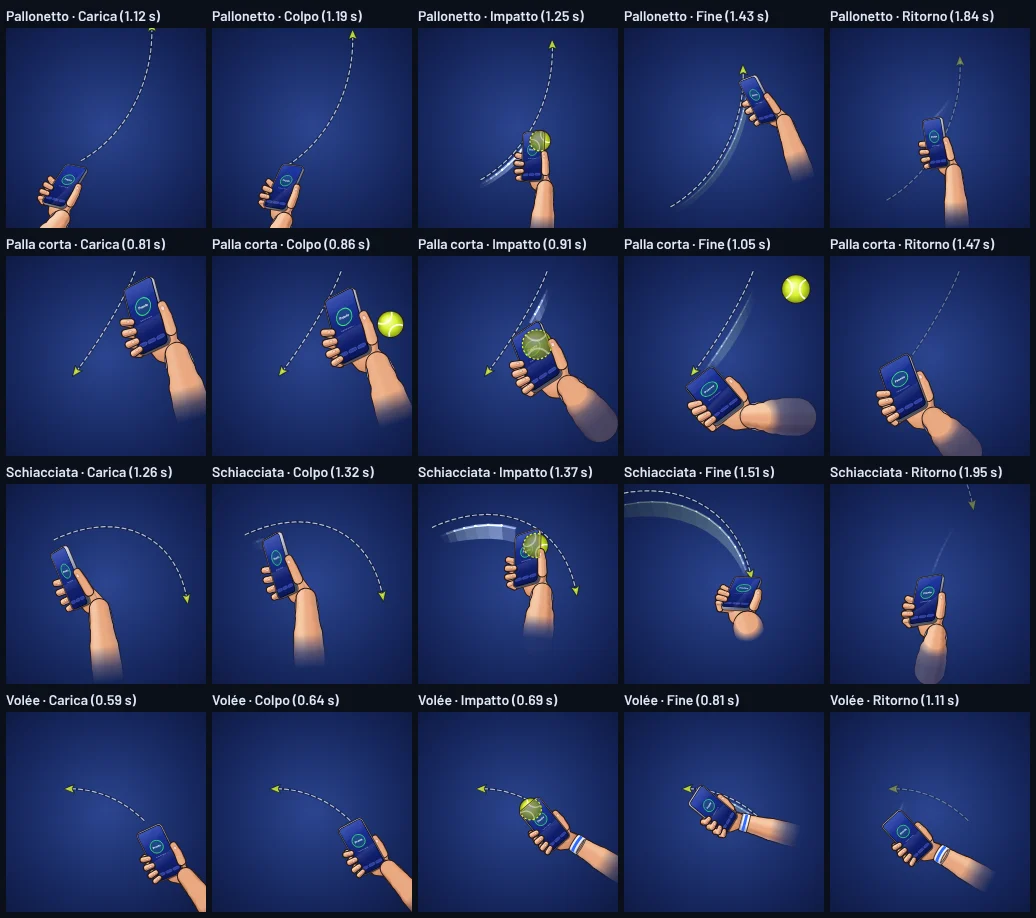
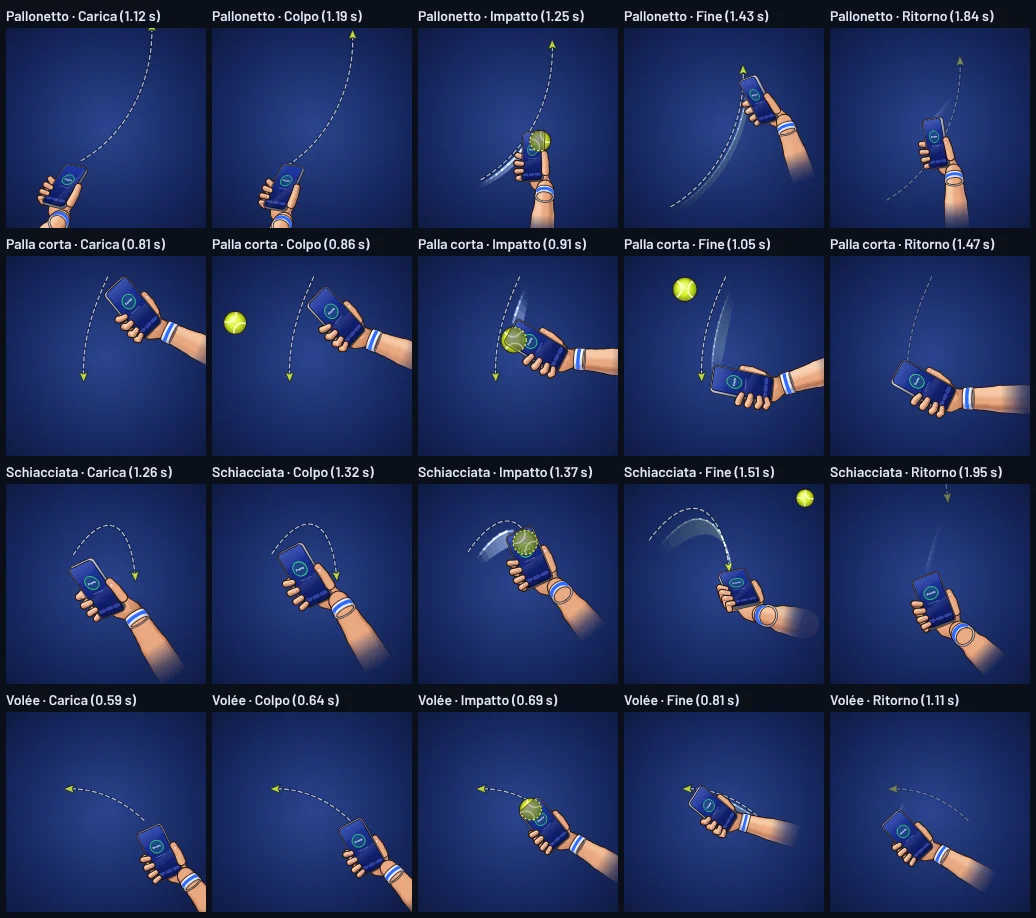
B9 animazione: nota delle due revisioni (tecnica e artistica) in docs/b9/animazione-c.md §6, fogli C-anim-* rifatti e guardati, fotogrammi in sequenza
- docs/b9/animazione-c.md §6: cosa trovato, cosa corretto, misure (fps, ms, peso, prove nel browser, lista §5.6.2 punto
  per punto), minori lasciati e non verificato.
- docs/b9/img/C-anim-*.webp rifatti dopo le correzioni; nuovi C-anim-seq-* (16 fotogrammi per ciclo a 448×280 di
  servizio, schiacciata, palla corta e dritto mancino; strisce 1600×1000 di dritto e servizio).
- Test dell'avambraccio: soglia 28° (oggi minimo 30°: servizio e schiacciata a fine ritorno).

Claude-Session: https://claude.ai/code/session_014xUKe3fJojkqNghZjqDcyr

diff --git a/docs/b9/animazione-c.md b/docs/b9/animazione-c.md
@@ -3,6 +3,8 @@
 > Stato: **completo per l'unione** (06/11/2026, worktree `wf_b232ca46-ca8-1`, branch `worktree-wf_b232ca46-ca8-1`, base
 > `b86baac` più `natpf-simulator` unito). Brief: `docs/b9/giudizio-animazione.md` §5. Posa: `docs/b9/posa-gesti.md`.
 > Fogli di controllo: `docs/b9/img/C-anim-*.webp`. Modale vera: `docs/b9/img/C-modale-*.webp`.
+> **Unito in `f386f89` senza le due revisioni previste: fatte dopo l'unione, vedi §6** (cosa trovato, cosa corretto,
+> misure). Le camere di servizio, schiacciata e palla corta del §1 e del brief sono cambiate lì.
 
 ## 1. Cosa è cambiato
 
@@ -133,3 +135,85 @@ Schermate guardate: `C-modale-1280x720` (dritto all'impatto, «Rivedi i gesti» 
 - Presa a martello (rollback): disegnata e fedele nei test, ma le camere sono tarate per la presa nel palmo (telefono di
   taglio nel dritto a martello alla Carica).
 - Le misure dei tempi sono state prese con un altro agente al lavoro sulla stessa macchina (carico 1–5 su 4 core).
+
+## 6. Revisioni dopo l'unione (06/11/2026 sera, worktree `wf_0d2c43d5-d67-1`, base `3685b0f`)
+
+Il ramo è stato unito (`f386f89`) senza le due revisioni del brief; fatte qui, sul codice unito. Commit: `2168295`,
+`46dde6a`, `3f41e33` più questa nota. Riconoscimento dei gesti **non toccato** (moti, piani, rilevatore): cambiano solo
+disegno, dati delle camere (`CAMERAS` di `natpf_gesture_pose.js`, solo disegno) e un riquadro dell'Allenamento.
+
+### 6.1 Revisione tecnica
+| Controllo | Trovato | Corretto / misura |
+|---|---|---|
+| API di `natpf_gesture_demo.js` e usi | invariata; usi: `natpf_tutorial.js` (istanza iniettata, `stop()` alla chiusura, `_fit` → `setSize`), `natpf_training.js` (`'main'` per la modale, `'coach'` 200×200 negli esercizi e 300×300 nella lezione, compatta), `natpf_split_ui.js` (`'p1'`/`'p2'`), `natpf_media.js` (solo un commento) | — |
+| `demo.pose == gesturePose`: il test di fedeltà fallisce davvero? | **No**: il test confrontava `demo.pose(t)` con `gesturePose`, ma non che il disegno usi `demo.pose`. Prova: con `render` che calcola la posa da sé (`gesturePose(...)` al posto di `this.pose(tt)`) i 7 test del file restavano verdi | nuovo test con un contesto 2D finto in Node: il disegno vero gira, lo scheletro disegnato (`info.figure.rig`) = `handRig(gesturePose)` destro e mancino, e con `demo.pose` sostituita il disegno la segue. Con la stessa mutazione ora **fallisce** («il disegno non segue demo.pose»). Corretto anche `info` della presa (perdeva la figura) |
+| Due istanze nello stesso schermo | ok: istanze distinte, dritto P1 e servizio mancino P2 insieme | 60,0 fps a 1280×720 (≥ 50 ✓) |
+| Compatta negli esercizi dell'Allenamento | ok (200×200, `compact`), **ma** con la modale «Rivedi i gesti» aperta durante un esercizio il riquadro «Guarda e ripeti» continuava a disegnare sotto la modale (due animazioni) | si ferma con la modale aperta e riparte alla chiusura; verifica nuova in `natpf-training-flow` (prima 0 controlli, ora: in esercizio gira, compatta, 200 px; sotto la modale ferma, 0 fotogrammi in 0,5 s; dopo riparte) |
+| Nessun disegno a modale chiusa (requestAnimationFrame) | ok: `close()` chiama `stop()` | contate le `requestAnimationFrame` chieste dal modulo (pila della chiamata) per 1 s: **0** a modale chiusa (1280×720 e 1920×1080, dopo riapertura su un'altra scheda) e **0** con le due metà dello stesso schermo chiuse |
+| fps senza GPU (Chromium 153, opzioni predefinite) | — | modale sopra l'arena ferma: **58,4** fps a 1280×720 (disegno 1,9 ms), **60,2** a 1920×1080 (3,7 ms); due istanze **60,0**. Una prima esecuzione a 1920×1080 con carico 8–10 su 4 core (altri agenti con Chromium): 45,9 fps, rossa; ripetuta con carico ~8: verde. Con il campo 3D che gioca dietro: 1,3–1,7 fps con e senza modale (WebGL in software: il campo da solo non arriva a 2 fps); il ≥ 55 fps sopra il gioco che gira **non è misurabile qui** |
+| Costo del disegno a 640×400 | registrazione 2,25–2,59 ms (≤ 4 ✓); con la rasterizzazione su CPU 3,87 / 4,06 / 4,11 ms con carico 5–6 (≤ 4 al limite, una su tre verde); stessa misura sulla base `3685b0f` nello stesso momento: 3,71. Confronto alternato per scheda (min di 3 giri): media **3,45 ms** contro 3,21 della base; servizio 4,01 (2,79) e schiacciata 3,80 (2,69): le camere nuove mostrano l'avambraccio di lato, più lungo e quindi più pixel da sfumare; presa 4,54 (5,00) | registrazione ✓; rasterizzazione su CPU al limite con la macchina carica (da rimisurare a macchina scarica; su un PC con GPU il Canvas 2D è accelerato) |
+| Peso nella build | — | JS principale 1 519 981 → 1 561 091 byte rispetto a `3b59c51`, gzip −9 457 001 → 473 176 (**+16,2 KB** compressi ≤ 40 ✓); `dist` intera +42,8 KB non compressi; nessun asset |
+| Prove nel browser | — | `natpf-modale-gesti` **18/18** (15 + 3 nuove), `natpf-tutorial-phone` **37/37**, `natpf-split-ready` **34/34** (prima esecuzione 33/34 con la macchina carica, ripetuta verde), `natpf-training-flow` **18/18** (17 + 1 nuova), `natpf-gesti-fotogrammi` 30/31 (rossa solo la rasterizzazione ≤ 4 ms sopra) |
+
+### 6.2 Revisione artistica e didattica
+Fotogrammi in sequenza (nuova prova `tools/e2e/natpf-gesti-sequenze.mjs`: 16 per ciclo, 11 schede, destro e mancino, a
+640×400 e 448×280, striscia 1600×1000; più le misure del moto a 60 fps sul disegno) **guardati**, più primi piani a
+800×500. In `docs/b9/img/`: `C-anim-seq-448x280-servizio`, `-schiacciata`, `-palla-corta`, `-dritto-mancino` e
+`C-anim-seq-1600x1000-dritto`, `-servizio` (dopo le correzioni); fogli `C-anim-*` dei momenti chiave rifatti.
+
+Difetti trovati (bloccanti = si notano o rendono il gesto ambiguo):
+
+| # | Difetto | Gravità | Misura prima → dopo | Correzione |
+|---|---|---|---|---|
+| 1 | **Etichette numerate dei fantasmi che saltano** da un lato all'altro del soggetto mentre il telefono si muove (posto ricalcolato a ogni fotogramma) | bloccante | salto massimo per fotogramma: dritto 135 px, tagliato 203, servizio 114, palla corta 119 a 640×400 (7–109 salti > 3 px per ciclo) → **0 px** con la camera ferma; con la camera che segue (servizio, schiacciata, pallonetto) l'etichetta si sposta solo con il suo fantasma (≤ 1,5× lo spostamento della camera: 9 / 14 / 6 px) | posto scelto una volta quando il fantasma compare, guardando il soggetto vivo in 12 istanti fino al ritorno e al contatto (peso forte sulla sovrapposizione peggiore); l'etichetta resta attaccata al fantasma e si spegne se il fantasma esce dallo stadio (prima restavano «1 Carica 2 Impatto 3 Fine» in cima allo stadio senza fantasma). Costo: una volta per scheda, ≤ ~10 ms nel fotogramma in cui il fantasma compare (prima ~1 ms a ogni fotogramma) |
+| 2 | **Avambraccio di punta verso la camera** nella fine del servizio e della schiacciata (e nella palla corta): una «palla di pelle» sfocata sotto il telefono, letta come un pugno | bloccante | angolo minimo tra avambraccio e raggio visivo: servizio 1°, schiacciata 5°, palla corta 21° (servizio sotto 35° per l'83% del ciclo) → **≥ 30°** per tutte le schede (servizio 30° a fine ritorno, schiacciata 30°, pallonetto 31°, palla corta 81°; a 30° l'avambraccio si vede ancora di lato, accorciato, con la sfumatura lineare); test nuovo «avambraccio mai verso la camera ≥ 28°» | camere riviste con una ricerca su azimut ed elevazione (telefono ≥ 28° dalla linea di vista nelle pose chiave) e guardate: servizio e schiacciata `[.3, .5, .81]` (da dietro un poco a destra e dall'alto: il braccio sale dal basso, la battuta scende sopra il telefono, l'accompagnamento esce di lato), palla corta `[-.47, .34, .81]` (da dietro a sinistra, bassa). Scartata per la schiacciata `[.13, .64, .75]`: lo slancio in avanti si accorciava in un piccolo ricciolo |
+| 3 | **Freccia del verso che scatta al giro del ciclo**: si riaccendeva piena negli ultimi decimi del ciclo e spariva di colpo a t = 0 | bloccante (si vede a ogni ripetizione) | — | spenta dal ritorno alla carica successiva; la punta cresce con la freccia (prima una punta piena da sola, staccata dal telefono); nel servizio la freccia della battuta cresce dopo il lancio, non insieme (prima una punta isolata in cima allo stadio durante il lancio) |
+| 4 | Polsino coperto dall'avambraccio quando l'avambraccio è davanti alla mano (presa di lato, posizione): il bordo tondo dell'avambraccio restava come una cucitura sul palmo | minore | — | polsino ridisegnato sopra l'avambraccio (lo avvolge) |
+
+Lista del §5.6.2 punto per punto (dopo le correzioni; `natpf-gesti-fotogrammi`, tutte le schede, destro e mancino):
+
+| Voce | Misura |
+|---|---|
+| Avambraccio e mano sempre uniti | sì in tutti i fotogrammi in sequenza (polsino sull'attacco anche con l'avambraccio davanti); avambraccio mai di punta (≥ 30°) |
+| Polso ≤ 35° | 32,7° palmo, 13,8° martello (test) |
+| Dita sul vetro ≤ 8 mm | 4,8 mm (test) |
+| Nessun fantasma sopra il telefono vivo | sì (fantasmi sotto la figura, spenti al passaggio) |
+| Telefono mai di taglio nelle pose chiave (≥ 25°) | sì a 640×400, 448×280, 200×200, 1600×1000 (test e prova); con le camere nuove (pose chiave) servizio ≥ 53°, schiacciata ≥ 38°, palla corta ≥ 56° |
+| Palla ≤ 1 raggio dalla cima al contatto | sì per tutte |
+| «Impatto» scritto in quell'istante | sì per tutte |
+| Mano+telefono ≥ 28% dell'altezza all'impatto | minimo 32% (palla corta, 640×400), 33% (448×280), 37% (200×200), 30% (1600×1000): la palla corta vista da dietro è più piccola di prima (era il 53% minimo); sopra la soglia |
+| A 448×280 telefono ≥ 60 px all'impatto | minimo 61 px (pallonetto); 87 px a 640×400, 219 a 1600×1000 |
+| Etichette dentro lo stadio e fuori dal soggetto (≤ 10%) | sì a tutte le misure (con il posto fisso: prima della taratura del peso il dritto all'impatto era al 25%, corretto) |
+| Testi ≥ 12 px | sì |
+| Contrasto pelle/sfondo ≥ 3:1 | invariato: 4,4:1 sul punto più chiaro |
+| Colpo nel quadro (cima e palla fuori ≤ 100 ms, freccia ≤ 10%) | sì a tutte le misure (massimo 100 ms: palla in arrivo di piatto e incrociato) |
+
+Giudizio sui punti del brief, dai fotogrammi:
+- **Anatomia**: mano e telefono 1:1 (telefono lungo quanto la mano dal polso alla punta del medio); presa coerente con
+  `docs/riferimenti/presa-palmo-utente-2026-11-04.webp` (dita avvolte sul bordo sinistro nella parte bassa, pollice
+  lungo il bordo destro in alto, schermo verso chi guarda, cima inclinata in avanti); dita a capsule con unghie solo sul
+  dorso visibile, stile cartoon coerente; polso fermo. Il polsino visto dalla parte del gomito (posizione, presa di
+  lato) è un anello bianco marcato: corretto in prospettiva, un po' pesante a 640×400.
+- **Moto**: preparazione lenta e continua, accelerazione con il picco al contatto (scia e lampo), fermo breve in fine
+  colpo, ritorno morbido; con le correzioni nessuno scatto visibile nel ciclo (etichette, freccia). Velocità massima della
+  cima a 640×400: 22–43 px per fotogramma nella parte veloce (rovescio 43, tagliato 42), leggibile grazie alla scia.
+- **Fedeltà visiva al gesto riconosciuto**: freccia e scia seguono la cima nella parte veloce; servizio: lancio con la
+  palla appoggiata sul vetro → braccio in alto → battuta sopra la palla al colmo; schiacciata: braccio alto, poi giù
+  sopra il telefono; palla corta: carica in alto e mano che scende, corta e lenta (curva 0,6× il dritto).
+- **Leggibilità a metà schermo (448×280)**: il soggetto resta ≥ 33% dell'altezza all'impatto; le etichette dei fantasmi
+  sono piccole (12 px) ma ferme; il pallonetto a riposo è il soggetto più piccolo (telefono ~45 px in «Pronto»).
+
+Minori lasciati (non bloccanti, da decidere): fantasmi a contorno con le dita disegnate (a 448×280 si leggono come
+guanti vuoti, un po' affollati quando ce ne sono tre); pallonetto piccolo a riposo (camera che segue con `size .52`); la
+fase scritta dice «Colpo» già all'istante della carica (dalla posa, non dal disegno); etichetta che sfuma ancora visibile
+per ~0,1 s quando il suo fantasma è già quasi spento.
+
+### 6.3 Non verificato in queste revisioni
+- Persone vere (brief §5.6.6), GPU vera, Windows, ledwall, telefoni veri: come §5.
+- Movimento giudicato da fotogrammi in sequenza (16 per ciclo) e da misure a 60 fps sul disegno, non da un video.
+- La rasterizzazione su CPU a 640×400 è al limite di 4 ms con la macchina carica (altri agenti con Chromium, carico
+  5–10 su 4 core); non rimisurata a macchina scarica.
+- Presa a martello (rollback) con le camere nuove di servizio, schiacciata e palla corta: verde nei test e nella prova
+  dei fogli, non guardata in sequenza.
+- Le schermate della modale vera `C-modale-*-servizio.webp` mostrano ancora la camera di prima del servizio (le prove
+  le rifanno in PNG in una cartella temporanea, non convertite).
